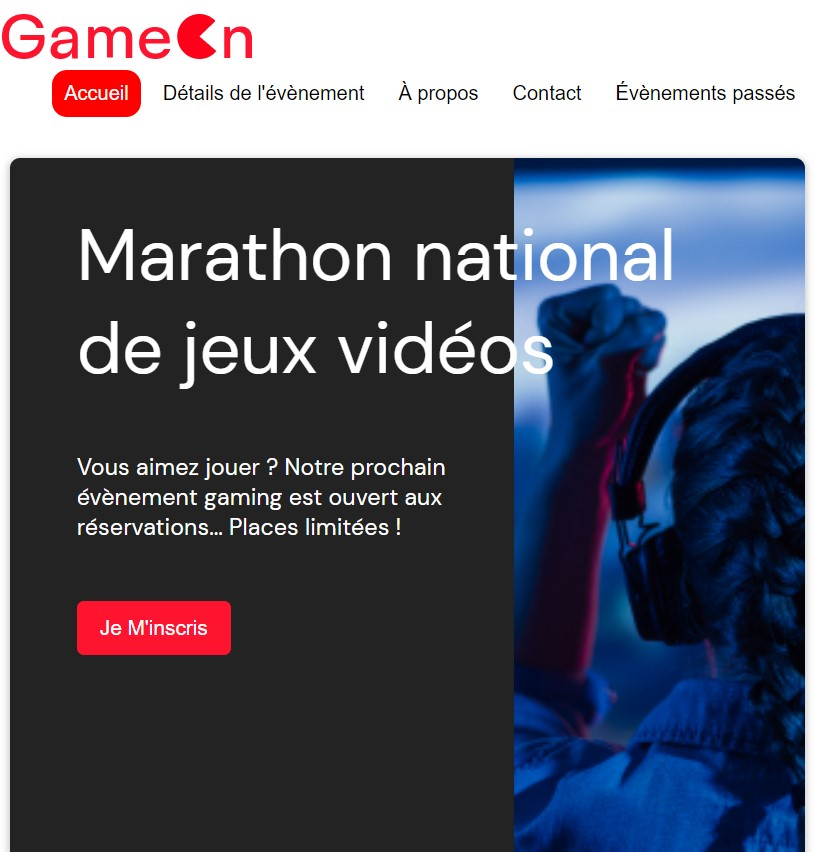
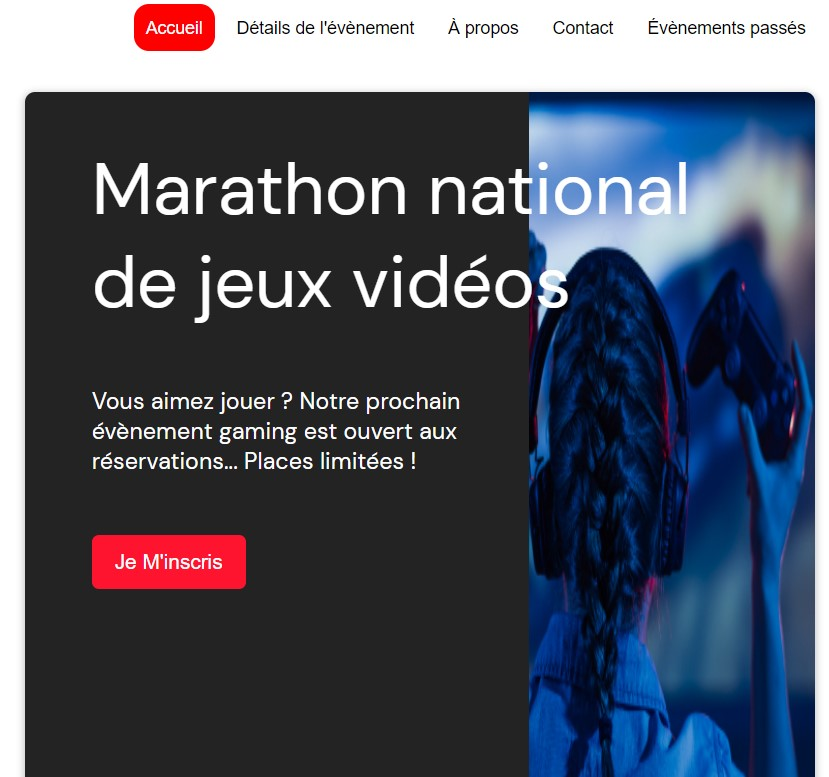
ciblage des éléments

diff --git a/regexFile.js b/regexFile.js
@@ -1,0 +1,88 @@
+// Code pour la vérification du formulaire
+
+//ciblage des éléments :
+let inputPrenom = document.getElementById("first");
+let inputNom = document.getElementById("last");
+let inputEmail = document.getElementById("email");
+let checkbox01 = document.getElementsByClassName("checkbox-icon")[0];
+let checkbox02 = document.getElementsByClassName("checkbox-icon")[1];
+let bouttonCParti = document.getElementsByClassName("btn-submit")[0];
+// creation de la balise en cas de probleme
+let smallCreation = document.createElement("small");
+
+function validationDuBoutton() {
+  bouttonCParti.addEventListener("click", function (e) {
+    e.target.disabled = true;
+    bouttonCParti.insertAdjacentElement("afterend", smallCreation);
+    smallCreation.setAttribute("whidh", "100%");
+    smallCreation.innerText = "khdklfhl";
+    console.log(bouttonCParti);
+  });
+}
+validationDuBoutton();
+
+/*
+function validationEmail() {
+  // Email
+  let email = document.getElementById("email");
+  let regexEmail = /^\w+([\.-]?\w+)*@\w+([\.-]?\w+)*(\.\w{2,3})+$/;
+  email.addEventListener("change", function () {
+    /*if (regexEmail.test(email.value)) {
+      emailErrorMsg.innerText = "";
+      validationEmailCheck = true;
+      return true;
+    } else {}
+    const creationDeDiv1 = document.createElement("small");
+    emailErrorMsg.innerText = "Veuillez saisir une adresse mail valide";
+    email.appendChild(creationDeDiv1);
+    return false;
+  });
+}
+
+validationEmail();
+
+function validationPrenom() {
+  // Prenom
+  let firstName = document.getElementById("firstName");
+  let firstNameErrorMsg = document.getElementById("firstNameErrorMsg");
+  let regexFirstName =
+    /^[a-zA-ZàáâäãåąčćęèéêëėįìíîïłńòóôöõøùúûüųūÿýżźñçčšžÀÁÂÄÃÅĄĆČĖĘÈÉÊËÌÍÎÏĮŁŃÒÓÔÖÕØÙÚÛÜŲŪŸÝŻŹÑßÇŒÆČŠŽ∂ð ,.'-]+$/u;
+  firstName.addEventListener("change", function () {
+    if (regexFirstName.test(firstName.value)) {
+      firstNameErrorMsg.innerText = "  ";
+      validationPrenomCheck = true;
+
+      return true;
+    } else {
+      firstNameErrorMsg.innerText = "Veuillez saisir un prénom correct";
+      return false;
+    }
+  });
+}
+function validationNom() {
+  // Nom
+  let lastName = document.getElementById("lastName");
+  let lastNameErrorMsg = document.getElementById("lastNameErrorMsg");
+  let regexLastName =
+    /^[a-zA-ZàáâäãåąčćęèéêëėįìíîïłńòóôöõøùúûüųūÿýżźñçčšžÀÁÂÄÃÅĄĆČĖĘÈÉÊËÌÍÎÏĮŁŃÒÓÔÖÕØÙÚÛÜŲŪŸÝŻŹÑßÇŒÆČŠŽ∂ð ,.'-]+$/u;
+  lastName.addEventListener("change", function () {
+    if (regexLastName.test(lastName.value)) {
+      lastNameErrorMsg.innerText = "  ";
+      validationNomCheck = true;
+
+      return true;
+    } else {
+      lastNameErrorMsg.innerText = "Veuillez saisir un nom correct";
+      return false;
+    }
+  });
+}
+
+
+if (
+    validationPrenomCheck == true &&
+    validationNomCheck == true &&
+    validationAdressCheck == true &&
+    validationVilleCheck == true &&
+    validationEmailCheck == true
+  )*/

diff --git a/modal.css b/modal.css
@@ -536,13 +536,18 @@ footer {
 Partie codée par l'étudiant
 -----------------------------------------*/
 
-@media (min-width: 801px) and (max-width: 1000px) {
+/*
+Changement de comportement pour la barre de navigation, le titre et l'image 
+*/
+
+@media (min-width: 750px) and (max-width: 1000px) {
   .hero-headline {
     font-size: 4.5rem;
   }
   .hero-img img {
     overflow: hidden;
-    width: min-content;
-    align-items: flex-end;
+  }
+  .main-navbar span {
+    font-size: 1.1rem;
   }
 }

diff --git a/index.html b/index.html
@@ -199,10 +199,11 @@
                 </label>
                 <br>
               </div>
+              
               <input
                 class="btn-submit"
-                type="submit"
                 class="button"
+                type="submit"
                 value="C'est parti"
               />
             </form>
@@ -216,5 +217,6 @@
       </p>
     </footer>
     <script src="modal.js"></script>
+    <script src="regexFile.js"></script>
   </body>
 </html>
